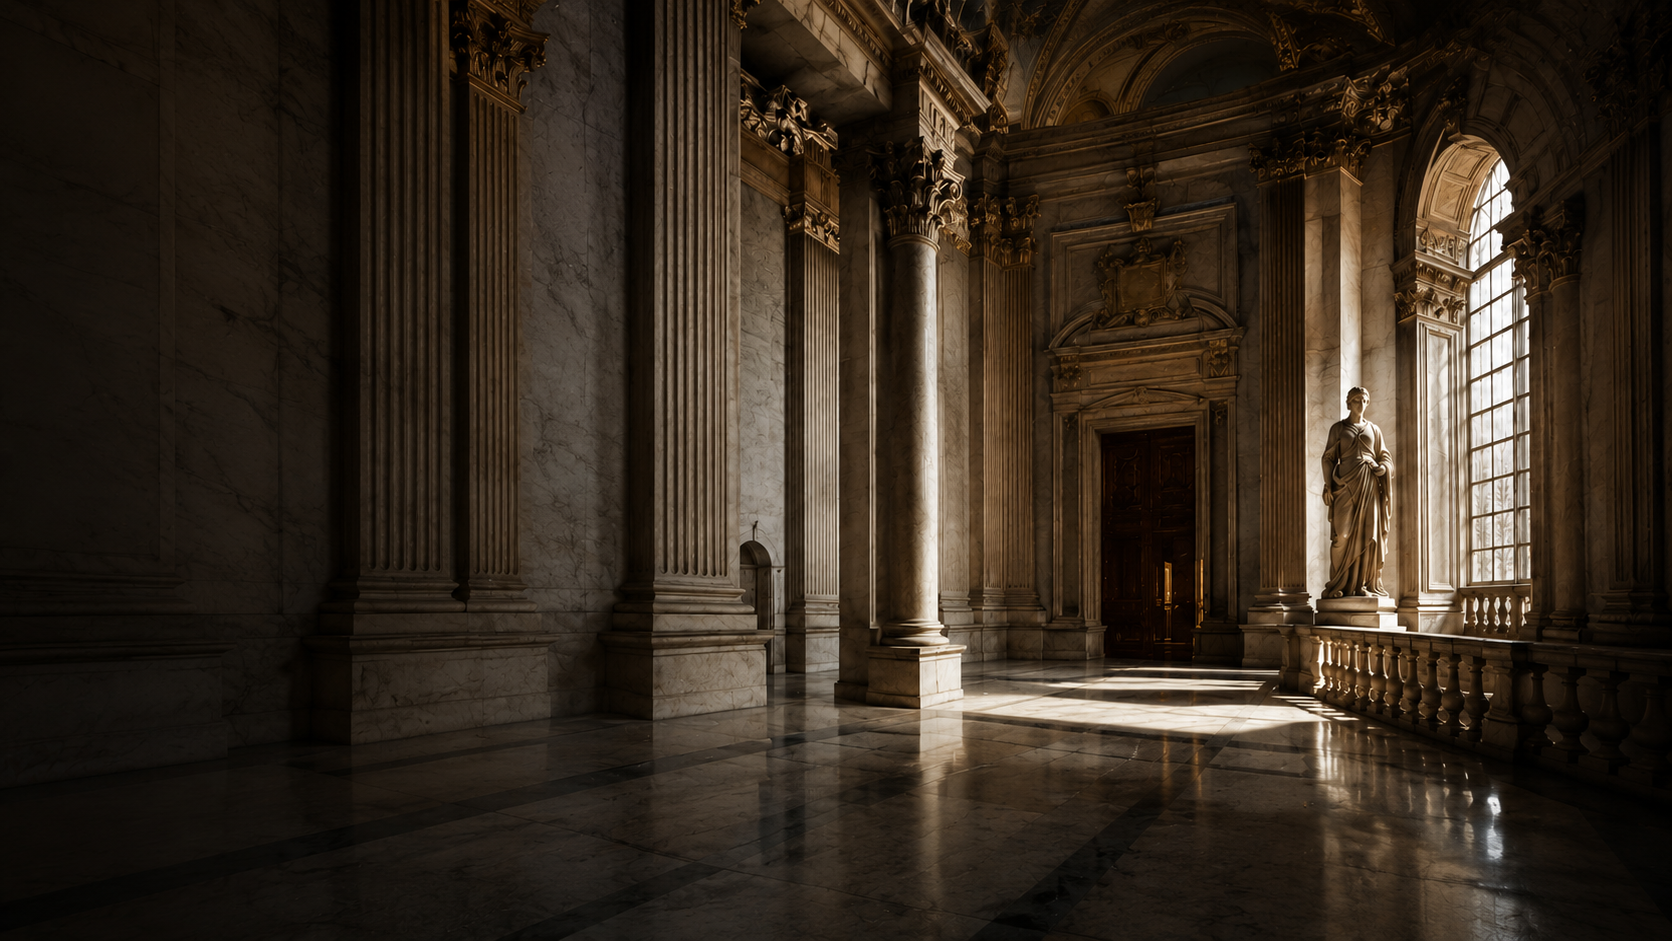
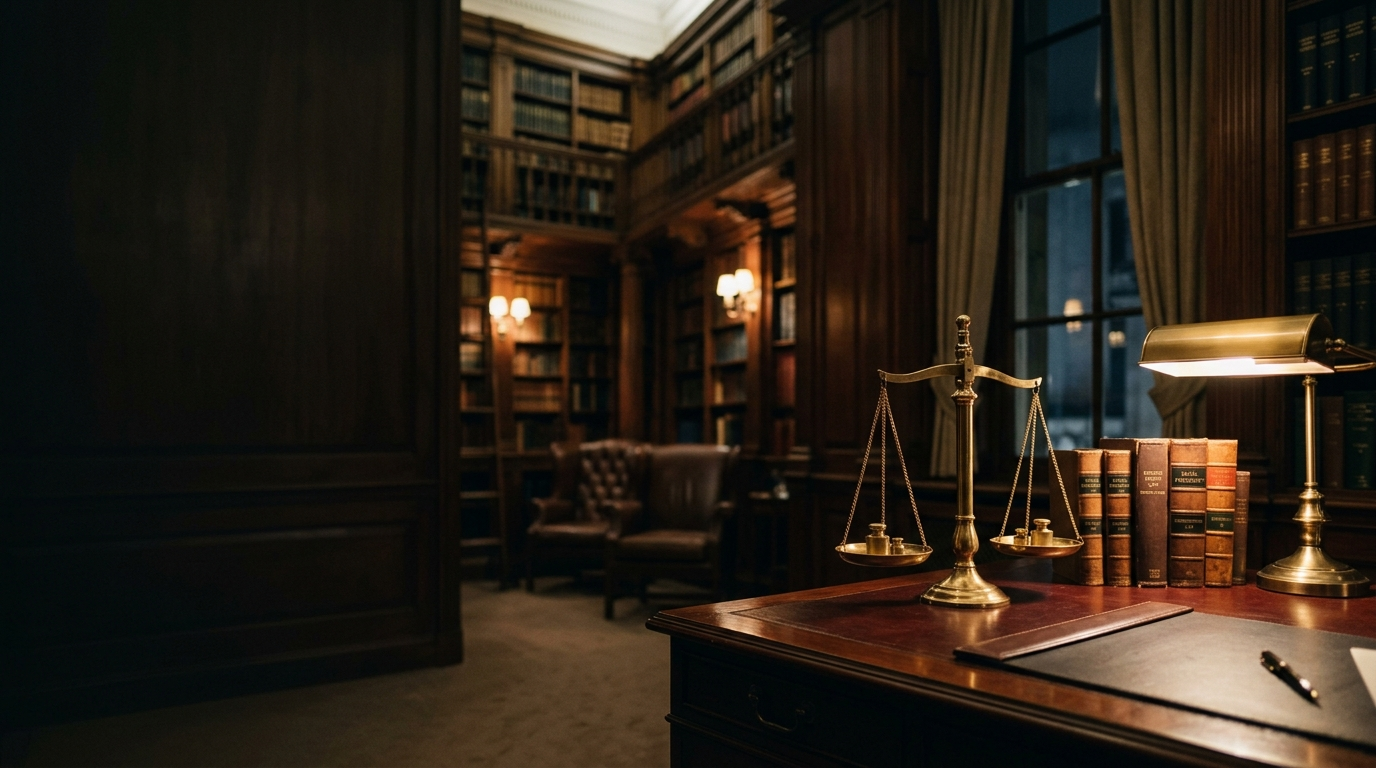
feat(ui): yangi atmosferik advokatlik va sud amaliyotiga mos hero background rasmini o'rnatish

diff --git a/src/components/home/HeroSection.tsx b/src/components/home/HeroSection.tsx
@@ -17,7 +17,7 @@ export const HeroSection: React.FC = () => {
       <div className="absolute inset-0 z-0">
         <Image
           src="/new-hero-bg.png"
-          alt="Agzamov Legal Group Supreme Court Hall"
+          alt="Agzamov Legal Group Law Chamber & Judicial Practice"
           fill
           priority
           className="object-cover object-center scale-100"
